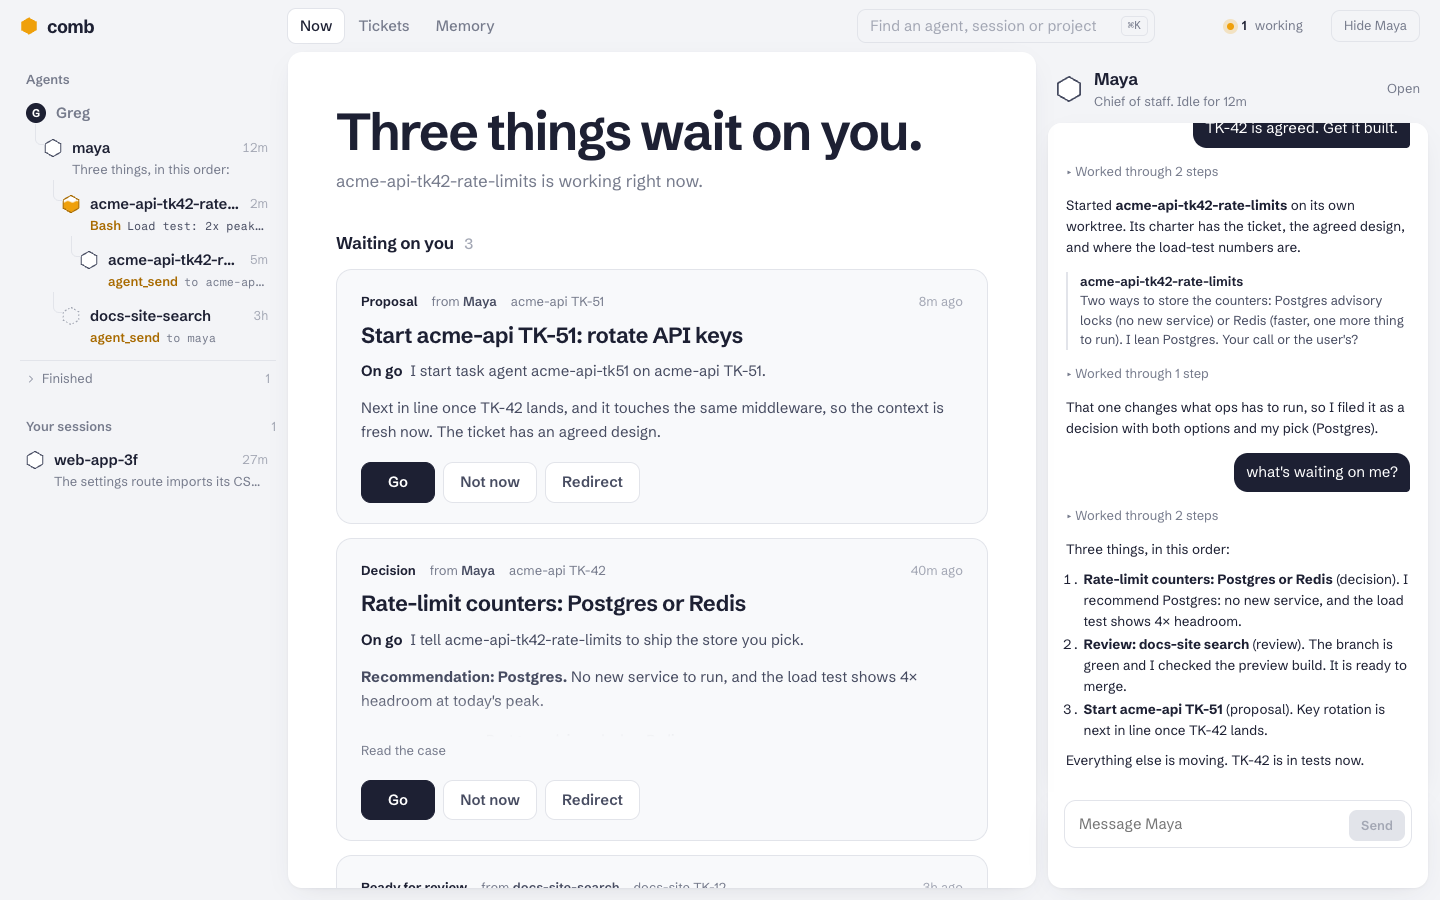
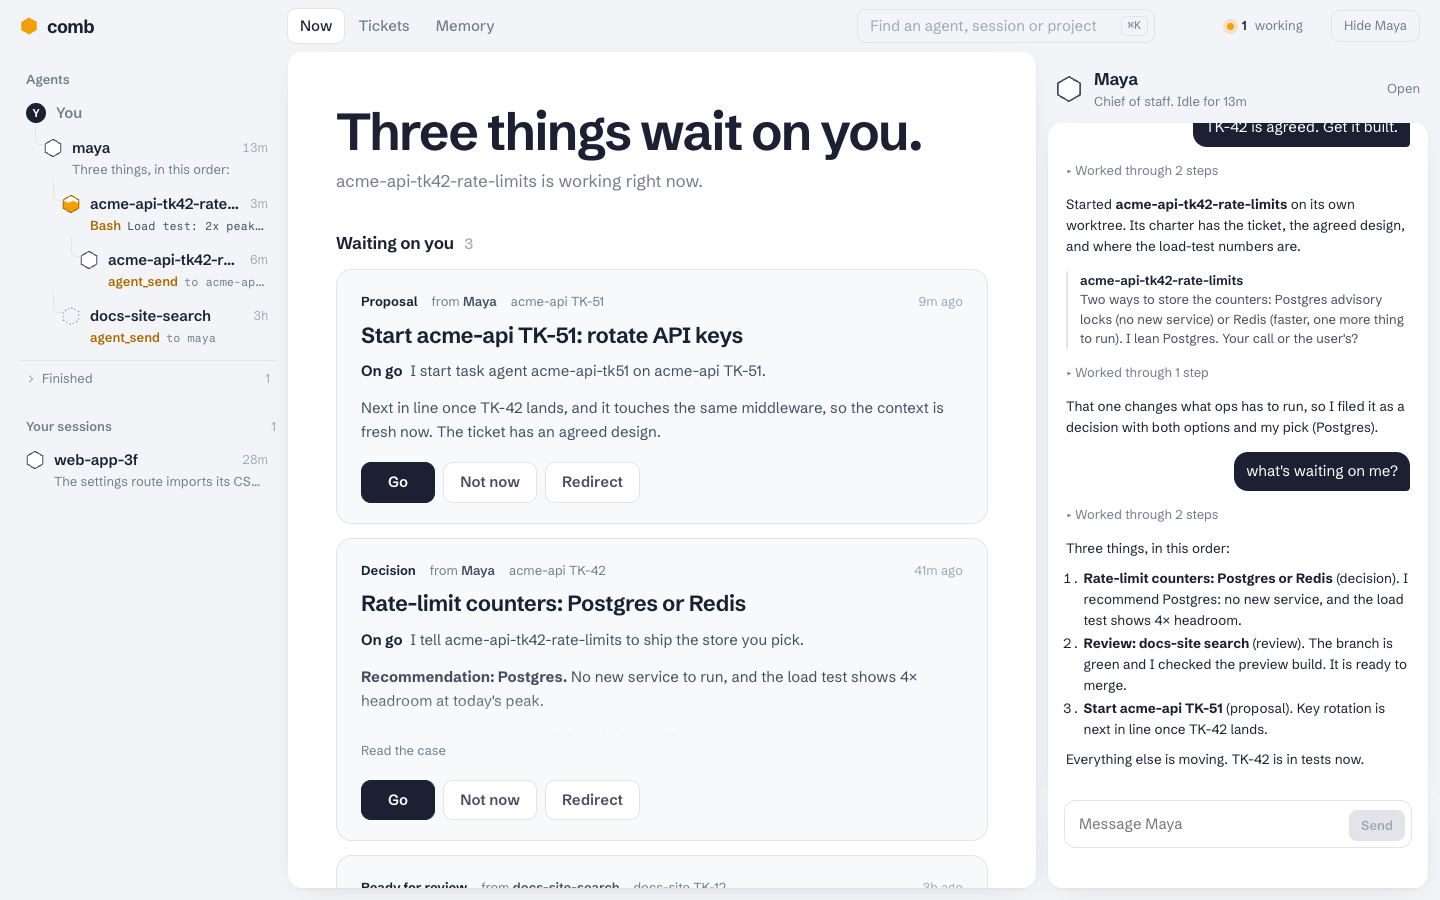
Page: the human's name comes from config.json, default "You"
userName in ~/.comb/config.json names the human at the top of the tree, in
the root avatar's initial, and wherever the page labels a message or a start
from them. The snapshot carries it, so an edit shows within one poll. The
internal id stays "greg": session.json parents, transcripts, queue answers
and precedents already use it, and this changes display only, so stored state
needs no migration. comb init reports the name and never writes the file.

Screenshots regenerated from the fixture with the default.

diff --git a/src/__tests__/config.test.ts b/src/__tests__/config.test.ts
@@ -1,0 +1,52 @@
+import { afterEach, beforeEach, describe, expect, test } from "bun:test";
+import { mkdtemp, rm, writeFile } from "node:fs/promises";
+import { tmpdir } from "node:os";
+import { join } from "node:path";
+
+import { DEFAULT_USER_NAME, readCombConfig, userLabel } from "../config";
+import { buildSnapshot } from "../page/state";
+
+let home: string;
+beforeEach(async () => { home = await mkdtemp(join(tmpdir(), "comb-config-")); });
+afterEach(async () => { await rm(home, { recursive: true, force: true }); });
+
+describe("readCombConfig", () => {
+  test("no config.json means the default name, You", () => {
+    expect(readCombConfig(home)).toEqual({ userName: "You" });
+    expect(DEFAULT_USER_NAME).toBe("You");
+  });
+
+  test("userName from config.json, trimmed", async () => {
+    await writeFile(join(home, "config.json"), JSON.stringify({ userName: "  Ada " }));
+    expect(readCombConfig(home).userName).toBe("Ada");
+  });
+
+  test("a blank or non-string userName falls back to the default", async () => {
+    await writeFile(join(home, "config.json"), JSON.stringify({ userName: "  " }));
+    expect(readCombConfig(home).userName).toBe("You");
+    await writeFile(join(home, "config.json"), JSON.stringify({ userName: 7 }));
+    expect(readCombConfig(home).userName).toBe("You");
+  });
+
+  test("bad JSON gives the default and reports it; a missing file reports nothing", async () => {
+    const errors: string[] = [];
+    readCombConfig(home, (m) => errors.push(m));
+    expect(errors).toEqual([]);
+    await writeFile(join(home, "config.json"), "{ userName: Ada");
+    expect(readCombConfig(home, (m) => errors.push(m)).userName).toBe("You");
+    expect(errors).toHaveLength(1);
+    expect(errors[0]).toContain("config.json is not valid JSON");
+  });
+});
+
+test("userLabel: the avatar shows the name's first letter, upper-cased", () => {
+  expect(userLabel({ userName: "You" })).toEqual({ name: "You", initial: "Y" });
+  expect(userLabel({ userName: "greg" })).toEqual({ name: "greg", initial: "G" });
+  expect(userLabel({ userName: "Émile" }).initial).toBe("É");
+});
+
+test("the page snapshot carries the configured name; the internal parent id stays greg", async () => {
+  expect((await buildSnapshot({ home, live: [], claudeHome: home })).user).toEqual({ name: "You", initial: "Y" });
+  await writeFile(join(home, "config.json"), JSON.stringify({ userName: "Greg" }));
+  expect((await buildSnapshot({ home, live: [], claudeHome: home })).user).toEqual({ name: "Greg", initial: "G" });
+});

diff --git a/src/config.ts b/src/config.ts
@@ -1,0 +1,45 @@
+/**
+ * comb's own settings: `<COMB_HOME>/config.json`. Every key is optional.
+ *
+ *   { "userName": "Ada" }   how the page names the human at the top of the tree
+ *
+ * This is display only. The human's internal id stays "greg" (GREG in
+ * agents.ts): session.json parents, transcripts and queue answers already use
+ * it, so changing the name never touches stored state.
+ */
+import { readFileSync } from "node:fs";
+import { join } from "node:path";
+
+import { resolveCombHome } from "./paths";
+
+export const DEFAULT_USER_NAME = "You";
+
+export type CombConfig = { userName: string };
+
+/** The human as the page shows them: a name, and the letter in the root avatar. */
+export type UserLabel = { name: string; initial: string };
+
+export function configPath(home: string = resolveCombHome()): string {
+  return join(home, "config.json");
+}
+
+/**
+ * Reads config.json. A missing file, bad JSON or a blank value gives the
+ * default, so a typo never takes the page down; the page server logs bad JSON.
+ */
+export function readCombConfig(home: string = resolveCombHome(), onError?: (msg: string) => void): CombConfig {
+  let raw: unknown = {};
+  try {
+    raw = JSON.parse(readFileSync(configPath(home), "utf-8"));
+  } catch (err) {
+    const missing = (err as NodeJS.ErrnoException)?.code === "ENOENT";
+    if (!missing) onError?.(`${configPath(home)} is not valid JSON; using defaults (${err instanceof Error ? err.message : String(err)})`);
+  }
+  const name = (raw as { userName?: unknown } | null)?.userName;
+  return { userName: typeof name === "string" && name.trim() ? name.trim() : DEFAULT_USER_NAME };
+}
+
+export function userLabel(config: CombConfig): UserLabel {
+  const name = config.userName;
+  return { name, initial: [...name][0]!.toUpperCase() };
+}

diff --git a/src/page/ui/app.ts b/src/page/ui/app.ts
@@ -74,7 +74,9 @@ function setCell(svg: Element | null, activity: Activity) {
 
 const WORDS = ["No", "One", "Two", "Three", "Four", "Five", "Six", "Seven", "Eight", "Nine"];
 const count = (n: number) => WORDS[n] ?? String(n);
-const who = (name: string) => (name === "greg" ? "Greg" : name === "maya" ? "Maya" : name);
+/** "greg" is the human's internal id (GREG in agents.ts); the page shows the configured name. */
+const userName = () => snap?.user.name ?? "You";
+const who = (name: string) => (name === "greg" ? userName() : name === "maya" ? "Maya" : name);
 /** What a prompt from comb or the harness did, in a few words. */
 function combNote(text: string, her = false): string {
   if (text.startsWith("You were restarted")) return `Restarted from ${her ? "her" : "its"} workspace`;
@@ -370,7 +372,7 @@ function renderPulse() {
 const rail = $("rail");
 rail.innerHTML = `
   <h2>Agents</h2>
-  <div class="root-row"><span class="you">G</span>Greg</div>
+  <div class="root-row" id="root-row" hidden><span class="you" id="root-initial"></span><span id="root-name"></span></div>
   <ul id="tree"></ul>
   <button class="fold" id="tree-fold" type="button" hidden></button>
   <ul id="tree-finished" class="finished" hidden></ul>
@@ -457,6 +459,9 @@ function treeOrder(agents: AgentNode[]): { node: AgentNode; depth: number }[] {
 
 function renderRail() {
   if (!snap) return;
+  $("root-initial").textContent = snap.user.initial;
+  $("root-name").textContent = snap.user.name;
+  $("root-row").hidden = false; // hidden until the first snapshot names the human
   const cur = (n: AgentNode | SessionNode) =>
     "kind" in n ? route.view === "session" && route.id === n.sessionId : route.view === "agent" && route.name === n.name;
 

diff --git a/src/page/state.ts b/src/page/state.ts
@@ -9,6 +9,7 @@ import { join } from "node:path";
 
 import { agentDir, GREG, readAgentSession, type AgentSession } from "../agents";
 import { isEnded, type LiveSession } from "../claude";
+import { readCombConfig, userLabel, type UserLabel } from "../config";
 import { projectForDir } from "../hive";
 import { listItems, type QueueItem } from "../queue";
 import { parseLines, settle, transcriptPath, type FeedEvent } from "../transcript";
@@ -57,6 +58,8 @@ export type SessionNode = {
 
 export type Snapshot = {
   at: string;
+  /** How the page names the human (id "greg"), from config.json; read each build, so an edit shows up live. */
+  user: UserLabel;
   agents: AgentNode[];
   /** Greg's own interactive sessions. */
   mine: SessionNode[];
@@ -148,7 +151,8 @@ export async function buildSnapshot(opts: BuildOpts): Promise<Snapshot> {
   others.sort(recent);
 
   const queue = await listItems(home).catch(() => []);
-  return { at: new Date().toISOString(), agents, mine, others, queue, error: opts.liveError ?? null };
+  const user = userLabel(readCombConfig(home));
+  return { at: new Date().toISOString(), user, agents, mine, others, queue, error: opts.liveError ?? null };
 }
 
 /** How long a finished agent or Greg's idle session stays in the main list. */

diff --git a/src/__tests__/init.test.ts b/src/__tests__/init.test.ts
@@ -79,6 +79,18 @@ test("init puts Maya on Opus, and leaves a model Greg chose alone", async () => 
   expect(JSON.parse(await readFile(settings, "utf-8"))).toEqual({ model: "sonnet" });
 });
 
+test("init reports the user name and never writes config.json", async () => {
+  const fresh = await combInit(opts);
+  expect(fresh.lines).toContain(`user name: You (set "userName" in ${join(opts.home, "config.json")} to change it)`);
+  expect(existsSync(join(opts.home, "config.json"))).toBe(false);
+
+  const mine = JSON.stringify({ userName: "Greg", other: 1 }, null, 2) + "\n";
+  await writeFile(join(opts.home, "config.json"), mine);
+  const again = await combInit(opts);
+  expect(again.lines.some((l) => l.startsWith("user name: Greg "))).toBe(true);
+  expect(await readFile(join(opts.home, "config.json"), "utf-8")).toBe(mine);
+});
+
 test("resolveCombRepo: COMB_REPO, then a comb checkout in cwd, then ~/work/comb", async () => {
   const saved = process.env.COMB_REPO;
   delete process.env.COMB_REPO;

diff --git a/src/page/server.ts b/src/page/server.ts
@@ -22,6 +22,7 @@ import { existsSync, readdirSync } from "node:fs";
 import { mkdir, readFile, writeFile } from "node:fs/promises";
 import { join } from "node:path";
 
+import { readCombConfig } from "../config";
 import { agentDir, GREG, readAgentSession, sendToAgent, validateAgentName } from "../agents";
 import { findClaudeBin, listLiveSessions, runProcess, type LiveSession, type Run } from "../claude";
 import { HiveClient, listHiveProjects, type Ticket } from "../hive";
@@ -67,6 +68,8 @@ export function startPage(opts: PageOpts = {}) {
   const rexBin = opts.rexBin !== undefined ? opts.rexBin : findRexBin();
   const hiveBin = opts.hiveBin !== undefined ? opts.hiveBin : findHiveBin();
   const enc = new TextEncoder();
+  // Snapshots read config.json quietly every poll; say once, at start, if it is broken.
+  readCombConfig(home, (msg) => console.error(`comb page: ${msg}`));
 
   // --- live state ----------------------------------------------------------
   let live: LiveSession[] = [];

diff --git a/src/init.ts b/src/init.ts
@@ -9,6 +9,7 @@ import { homedir } from "node:os";
 import { join } from "node:path";
 
 import { createWorkspace, agentDir, readAgentSettings, writeAgentSettings } from "./agents";
+import { configPath, readCombConfig } from "./config";
 import { UsageError } from "./errors";
 import { ensureCombScaffold, resolveCombHome } from "./paths";
 
@@ -63,6 +64,10 @@ export async function combInit(opts: {
   } else {
     lines.push(`maya: model ${mayaSettings.model}`);
   }
+
+  // Read only: init never writes config.json, so an existing install keeps its name.
+  const config = readCombConfig(home, (msg) => lines.push(`config: ${msg}`));
+  lines.push(`user name: ${config.userName} (set "userName" in ${configPath(home)} to change it)`);
 
   await mkdir(skillsDir, { recursive: true });
   for (const name of USER_SKILLS) {

diff --git a/docs/standalone-decision.md b/docs/standalone-decision.md
@@ -35,7 +35,7 @@ plainer than yours.
 | Nightly picks and briefing asks into the queue (D23) | `src/nightly.ts` | Already a no-op: missing files read as none |
 | `hive attach <name>` on the page chip and in Open in terminal | `src/terminal.ts`, `src/page/ui/app.ts:937` | Falls back to `claude attach <name>`, which can match the wrong session |
 | `hive attach` itself lives in hive and reads `~/.comb` | `hive/src/commands/attach.ts` | n/a. **This breaks D10's rule**: hive now knows comb exists |
-| "Greg" and "Maya" are hard-coded: the `greg` parent, the page's root row, the message signature, the skill and charter text | `GREG` in `src/agents.ts`, `src/page/ui/app.ts:373`, `src/transcript.ts:24` | A stranger's page says "Greg" |
+| "Greg" and "Maya" in text: the message signature agents read, the preamble, the skill and charter text. (**Done:** the page's name for the human comes from `userName` in `~/.comb/config.json`, default "You". The internal id stays `greg`.) | `src/transcript.ts:24`, `agentPreamble`, `skills/`, `templates/` | Agents read "Greg, on the comb page:" and Greg's name in their instructions |
 
 Couplings that are not hive but matter for strangers: macOS only (launchd
 for the page, Terminal.app or Rex for Open in terminal), Bun to build, and
@@ -74,7 +74,12 @@ Claude Code 2.1.319 or later for `--bg` and `claude agents --json`.
      hive's command can stay as an alias that calls comb, or go. This
      restores D10.
   5. The user's name and the chief of staff's name from comb's own config
-     (default "you" and "maya"), not `GREG` and literals.
+     (default "you" and "maya"), not `GREG` and literals. **Partly done
+     (2026-11-14):** the page reads `userName` from `~/.comb/config.json`
+     (`src/config.ts`) and defaults to "You". The id `greg` stays, so stored
+     state needs no migration. Left: the chief of staff's name, the
+     signature on page messages, and the name in the preamble, skill and
+     Maya's charter.
 - **Greg loses:** almost nothing at runtime; his setup is the hive adapter
   on. He pays a second code path (with and without hive) in tests, and one
   more file to tune (the default identity).
@@ -82,7 +87,8 @@ Claude Code 2.1.319 or later for `--bg` and `claude agents --json`.
 ### (c) as it is
 
 - **A stranger gets:** a README that says "install hive first". Then the
-  full system, but with Greg's name on the page and hive's Maya persona.
+  full system, but with Greg's name in agents' instructions and hive's Maya
+  persona.
   Without hive, nothing.
 - **Cost to build:** none.
 - **Greg loses:** most of the audience. Few people will install two

diff --git a/AGENTS.md b/AGENTS.md
@@ -35,6 +35,8 @@ comb is the work layer on top of hive. Read `docs/design.md` first.
   `state.ts` the tree snapshot, `feed.ts` the transcript tail, `ui/` the
   browser code (plain TypeScript, bundled into the binary by Bun).
 - `src/paths.ts`: `~/.comb`.
+- `src/config.ts`: `~/.comb/config.json` (`userName`, the page's name for the
+  human; default "You"). Display only: the internal id stays `greg`.
 - `scripts/fixture/`: an invented comb world for the README screenshots
   (`build.ts`, `serve.ts`, a fake `claude` and a fake hive MCP server).
   Regenerate `docs/img/` from it, never from a real `~/.comb`.

diff --git a/README.md b/README.md
@@ -50,6 +50,15 @@ reloads the page onto the new binary.
 `COMB_HOME` moves comb's state out of `~/.comb`. `COMB_REPO` points
 `comb init` at the clone if you run it from somewhere else.
 
+The page calls you "You". To use your name, put it in `~/.comb/config.json`:
+
+```json
+{ "userName": "Ada" }
+```
+
+The page picks the change up within a few seconds. `comb init` never writes
+this file.
+
 ## Quick start
 
 You rarely run `comb` yourself. Your Claude sessions use the comb MCP tools.
